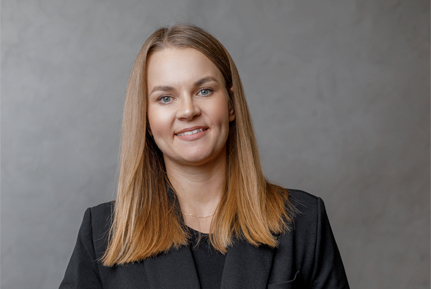
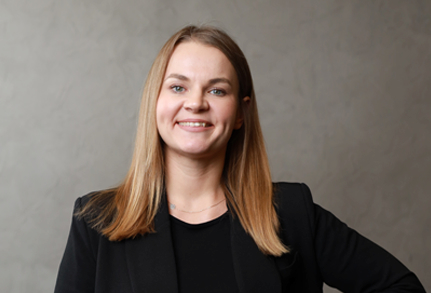
fixed contact margin

diff --git a/src/partials/Updates/recent-releases.html b/src/partials/Updates/recent-releases.html
@@ -2,14 +2,13 @@
   <div class="container updates-reliase-container">
     <ul class="updates-reliase-list">
       <li class="updates-reliase-item">
-
-        <a class="more-link  js-release-link" data-release="1">
+        <a class="more-link js-release-link" data-release="1">
           <img
             class="updates-reliase-img"
             src="././img/Updates/release1/fonImg-1x.jpg"
             srcset="
               /././img/Updates/release1/fonImg-1x.jpg 1x,
-              ././img/Updates/release1/fonImg-2x.jpg 2x
+              ././img/Updates/release1/fonImg-2x.jpg  2x
             "
             alt="Homes"
             loading="lazy"
@@ -17,19 +16,20 @@
         <div class="updates-reliase-text-content">
           <div class="updates-reliase-herro-wrapper">
             <h1 class="updates-reliase-herro">Nowy projekt w Gdańsku</h1>
-
           </div>
           <p class="updates-reliase-text">
             Wykończenie 125 mieszkań pod wynajem długoterminowy!
-
           </p>
           <p class="reliase-herro-text">20.03.2025</p>
           <div>
-          <a class="more-link more-relises js-release-link contact-btn" data-release="1" href="#"
-            >Więcej
-            <svg class="arrow-icon more-relises">
-              <use href="././img/svg/spreg-nanowo.svg#icon-arrow"></use></svg
-          ></a>
+            <a
+              class="more-link more-relises js-release-link contact-btn"
+              data-release="1"
+              href="#"
+              >Więcej
+              <svg class="arrow-icon more-relises">
+                <use href="././img/svg/spreg-nanowo.svg#icon-arrow"></use></svg
+            ></a>
           </div>
         </div>
       </li>
@@ -42,7 +42,6 @@
         <div class="updates-reliase-text-content">
           <div class="updates-reliase-herro-wrapper">
             <h1 class="updates-reliase-herro">Homes and Apartments</h1>
-
           </div>
           <p class="updates-reliase-text">
             Lorem ipsum dolor sit amet consectetur, adipisicing elit. Quia rerum
@@ -50,41 +49,46 @@
             voluptatibus, quaerat, accusamus consequuntur est! Itaque vitae
             officia quaerat!
           </p>
-            <p class="reliase-herro-text">Wrocław,20.03.2025</p>
+          <p class="reliase-herro-text">Wrocław,20.03.2025</p>
 
-<div>
-          <a class="more-link more-relises js-release-link contact-btn" data-release="2" href="#"
-            >Więcej
-            <svg class="arrow-icon more-relises">
-              <use href="././img/svg/spreg-nanowo.svg#icon-arrow"></use></svg
-          ></a>
-</div>
-        </div>
-      </li>
-      <li class="updates-reliase-item">
-        <img
-          class="updates-reliase-img"
-          src="././img/Updates/HOMES-APT-Cannon-2-.jpg.jpg"
-          alt="Homes-Art"
-        />
-        <div class="updates-reliase-text-content">
-          <div class="updates-reliase-herro-wrapper">
-            <h1 class="updates-reliase-herro">Homes and Apartments</h1>
-
-          </div>
-          <p class="updates-reliase-text">
-            Lorem ipsum dolor sit amet consectetur, adipisicing elit. Quia rerum
-            modi a vel atque ab dolores quod doloribus, ea sit maiores
-            voluptatibus, quaerat, accusamus consequuntur est! Itaque vitae
-            officia quaerat!
-          </p>
-            <p class="reliase-herro-text">Wrocław,20.03.2025</p>
           <div>
-          <a class="more-link more-relises js-release-link contact-btn" data-release="3" href="#"
-            >Więcej
-            <svg class="arrow-icon more-relises">
-              <use href="././img/svg/spreg-nanowo.svg#icon-arrow"></use></svg
-          ></a>
+            <a
+              class="more-link more-relises js-release-link contact-btn"
+              data-release="2"
+              href="#"
+              >Więcej
+              <svg class="arrow-icon more-relises">
+                <use href="././img/svg/spreg-nanowo.svg#icon-arrow"></use></svg
+            ></a>
+          </div>
+        </div>
+      </li>
+      <li class="updates-reliase-item">
+        <img
+          class="updates-reliase-img"
+          src="././img/Updates/HOMES-APT-Cannon-2-.jpg.jpg"
+          alt="Homes-Art"
+        />
+        <div class="updates-reliase-text-content">
+          <div class="updates-reliase-herro-wrapper">
+            <h1 class="updates-reliase-herro">Homes and Apartments</h1>
+          </div>
+          <p class="updates-reliase-text">
+            Lorem ipsum dolor sit amet consectetur, adipisicing elit. Quia rerum
+            modi a vel atque ab dolores quod doloribus, ea sit maiores
+            voluptatibus, quaerat, accusamus consequuntur est! Itaque vitae
+            officia quaerat!
+          </p>
+          <p class="reliase-herro-text">Wrocław,20.03.2025</p>
+          <div>
+            <a
+              class="more-link more-relises js-release-link contact-btn"
+              data-release="3"
+              href="#"
+              >Więcej
+              <svg class="arrow-icon more-relises">
+                <use href="././img/svg/spreg-nanowo.svg#icon-arrow"></use></svg
+            ></a>
           </div>
         </div>
       </li>

diff --git a/src/partials/About/attitude.html b/src/partials/About/attitude.html
@@ -3,10 +3,15 @@
 
 
     <div class="attitude-video-wrapper">
-      <video class="attitude-video" autoplay loop muted playsinline>
-        <source src="././img/About/attitude-video.mp4" type="video/mp4" />
-      </video>
-    </div>
+  <iframe
+    class="attitude-video"
+    src="https://www.youtube.com/embed/jLOiA6Xe8zc?autoplay=1&mute=1&loop=1&playlist=jLOiA6Xe8zc"
+    title="YouTube video"
+    frameborder="0"
+    allow="autoplay; encrypted-media; picture-in-picture"
+    allowfullscreen>
+  </iframe>
+</div>
     <div class="attitude-container-wrapper">
       <h2 class="attitude-title">O Nanowo</h2>
       <p class="attitude-text">

diff --git a/src/partials/About/contact-us.html b/src/partials/About/contact-us.html
@@ -86,7 +86,7 @@
             ><svg class="contacts-list-item-element-svg" width="18" height="18">
               <use href="././img/svg/spreg-nanowo.svg#icon-mail"></use>
             </svg>
-            nanowo@gmail.com</a
+            biuro@nanowo.com.pl</a
           >
           <p class="contacts-list-item-text item-styles">
            Pn-Pt,  09:00-17:00
@@ -127,7 +127,7 @@
                 <use href="././img/svg/spreg-nanowo.svg#icon-location"></use>
               </svg>
             </span>
-            Grabiszyńska 241 E 53-234 Wrocław
+            ul.Grabiszyńska 241E, 53-234 Wrocław
           </p>
         </li>
       </ul>

diff --git a/src/css/Contact/location.css b/src/css/Contact/location.css
@@ -29,6 +29,7 @@
   justify-content: space-between;
   max-height: 544px;
   padding: 24px 40px;
+  min-width: 350px;
 }
 
 .location-info-wrapper::after {
@@ -80,6 +81,11 @@
   width: 100%;
   height: 544px;
 }
+.info-contact-container{
+  display: flex;
+gap: 50px;
+  flex-direction: column;
+}
 
 @media only screen and (max-width: 1200px) {
   .location {
@@ -117,12 +123,11 @@
   }
   .info-contact-container{
   display: flex;
+  flex-direction: row;
   justify-content: space-between;
+  flex-wrap: wrap;
 }
-.info-contact-container{
-  display: flex;
-  justify-content: space-between;
-}
+
   .info-wrapper {
     gap: 10px;
   }

diff --git a/src/partials/footer.html b/src/partials/footer.html
@@ -100,7 +100,7 @@
           <use href="./img/svg/spreg-nanowo.svg#icon-cell-phone"></use>
         </svg>
 
-        <span>+487656541</span>
+        <span>+48 668 349 141</span>
       </a>
       <a
         href="https://www.google.com/search?q=Grabiszyńska+241+E%2C+Wrocław"
@@ -110,7 +110,7 @@
         <svg class="footer__contact-icon">
           <use href="./img/svg/spreg-nanowo.svg#icon-location"></use>
         </svg>
-        <span>ul. Grabiszyńska 241E,  53-234 Wrocław</span>
+        <span>ul.Grabiszyńska 241E, 53-234 Wrocław</span>
       </a>
     </div>
   </div>

diff --git a/src/css/About/attitude.css b/src/css/About/attitude.css
@@ -9,15 +9,18 @@
   display: flex;
   padding-bottom: 40px;
   gap: 103px;
+  justify-content: ;
 }
-
-
+.attitude-video-wrapper{
+  width: 100%;
+}
 
 .attitude-video {
   display: block;
   padding: 0;
   margin: 0;
-  max-width: 550px; /*має бути 900 на 541, але контент не влазе*/
+  max-width: 550px;
+  width: 100%;
   aspect-ratio: 16 / 9;
 }
 .attitude-title {
@@ -85,7 +88,7 @@
     font-size: var(--mobail-font-size);
   }
   .attitude-video {
-    max-width: 300px;
+    max-width: 500px;
     aspect-ratio: 16 / 9;
   }
 }

diff --git a/src/partials/About/team.html b/src/partials/About/team.html
@@ -30,10 +30,10 @@
           <img
             class="team-list-card-pic"
             srcset="
-              ././img/About/Aga.jpg 1x,
-              ././img/About/Aga2x.jpg 2x
+              ././img/About/Aga.png 1x,
+              ././img/About/Aga2x.png 2x
             "
-            src="././img/About/Aga.jpg"
+            src="../../img/About/Aga.png"
             alt="Agnieszka Dryjańska"
           />
           <div class="team-list-card-info-wrapper">

diff --git a/src/partials/header.html b/src/partials/header.html
@@ -83,7 +83,7 @@
             <svg class="contact-img-header">
               <use href="./img/svg/spreg-nanowo.svg#icon-cell-phone"></use>
             </svg>
-            <p class="contact-text-header">+487656541</p>
+            <p class="contact-text-header">+48 668 349 141</p>
           </a>
         </li>
       </ul>

diff --git a/src/partials/Contact/location.html b/src/partials/Contact/location.html
@@ -21,7 +21,7 @@
                     <use
                       href="././img/svg/spreg-nanowo.svg#icon-mail"
                     ></use></svg></span
-                >nanowo@gmail.com</a
+                >biuro@nanowo.com.pl</a
               >
           <p class="info-element"> Pn-Pt,  09:00-17:00</p>
         </div>
